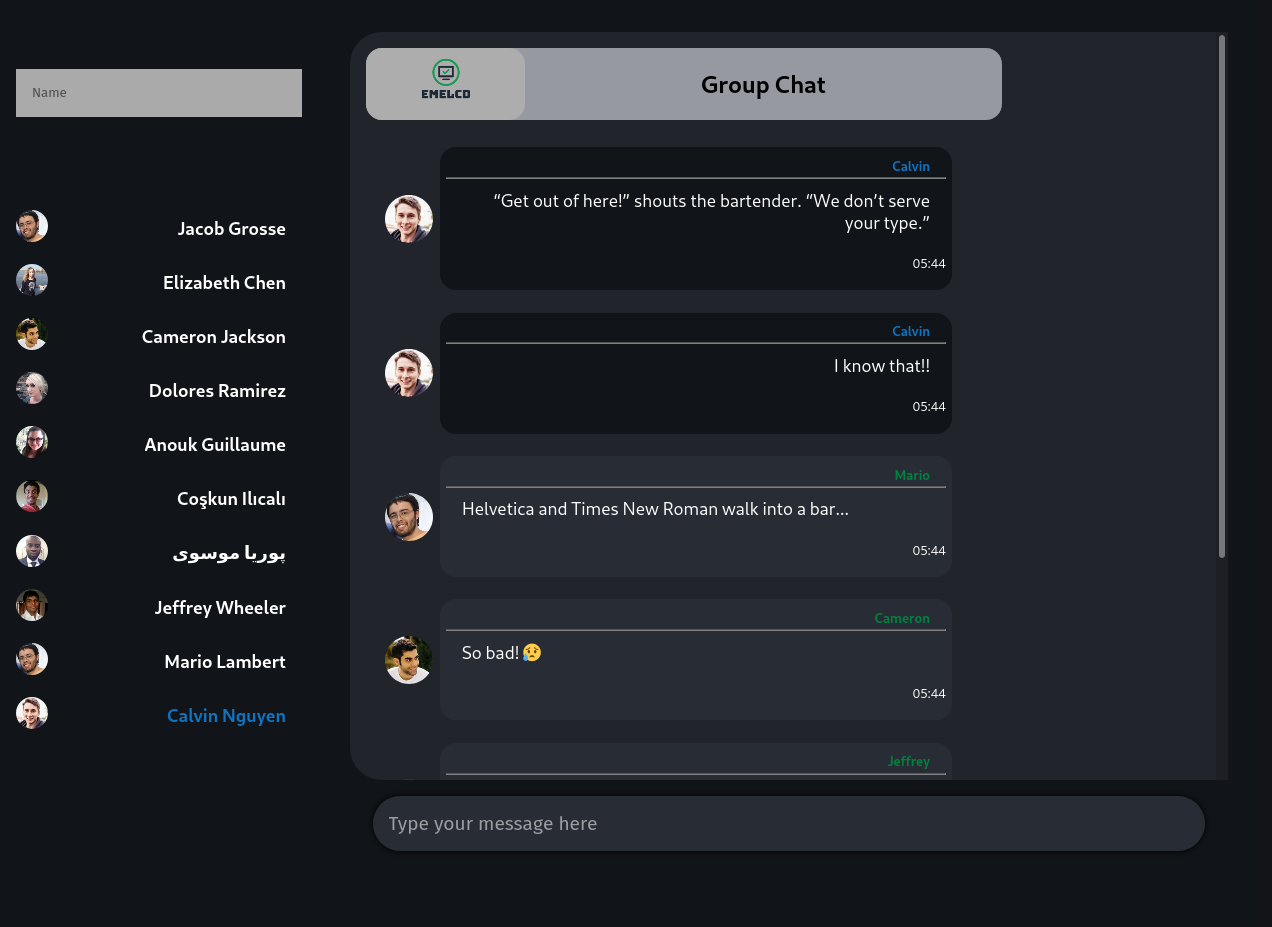
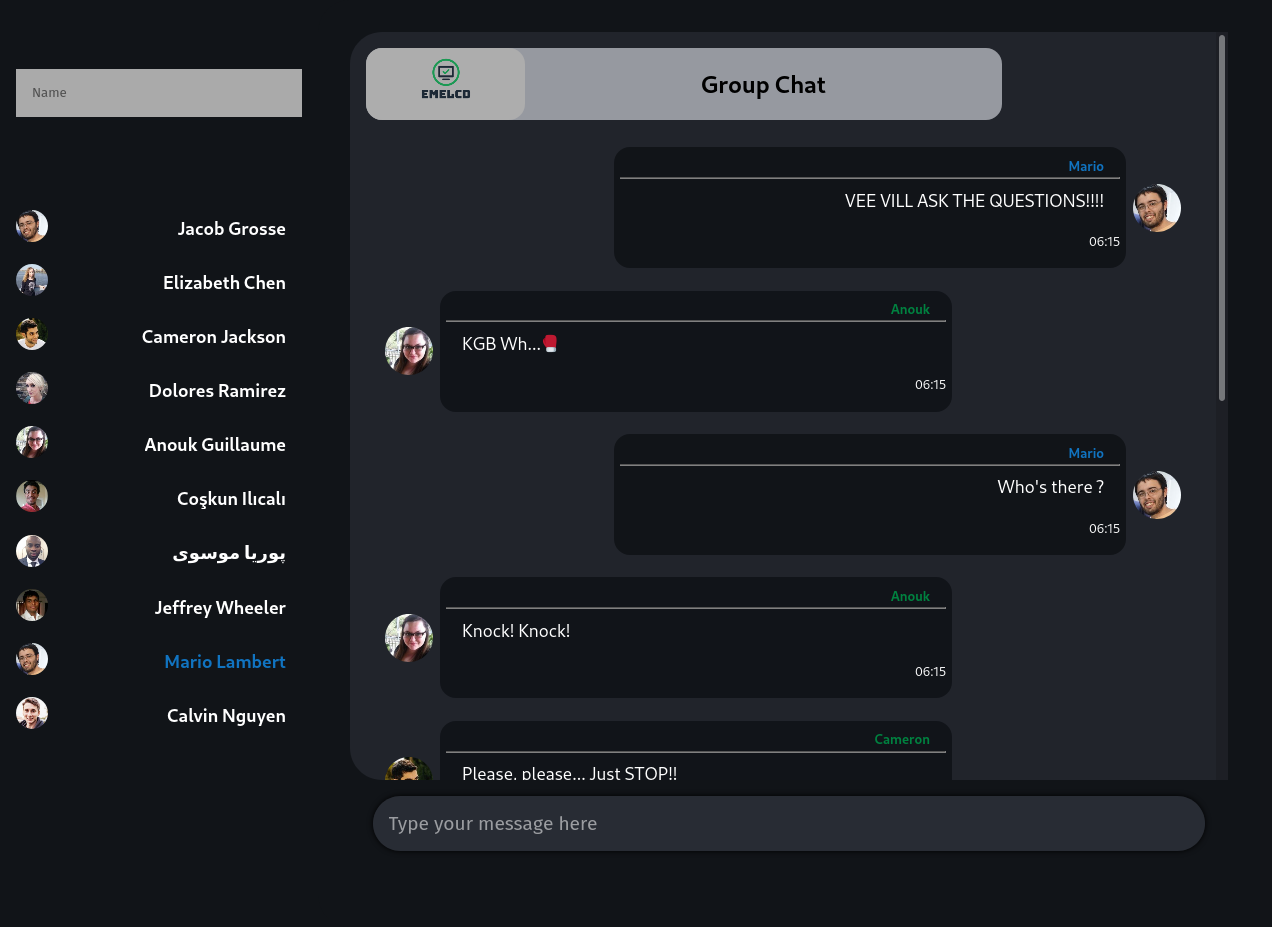
Finisihed Project

diff --git a/client/src/App.js b/client/src/App.js
@@ -54,7 +54,10 @@ const App = () => {
           <img src={item.picture} alt="avatar" />
         </div>
         <div className="contact-item-info">
-          <div style={{color: check ? '#1174C1':''}} className="contact-item-name">
+          <div
+            style={{ color: check ? "#1174C1" : "" }}
+            className="contact-item-name"
+          >
             {item.name.first} {item.name.last}
           </div>
         </div>
@@ -77,23 +80,47 @@ const App = () => {
   const ChatItem = ({ item }) => {
     // return data
     let userData = data.find((user) => user._id === item.user_id);
-    let check = user._id === item.user_id
-    console.log(userData)
+    let check = user._id === item.user_id;
+    console.log(userData);
     return (
-      <div className="message">
-        <div className="user">
-          <img className="img" src={userData.picture} alt="avatar" />
-        </div>
-        <div className="body" style={{backgroundColor: check ? '#111418' : '#282C34'}}>
-          <div className="card" >
-            <h5 className="title" style={{color: check ? '#1174C1' : '#008240'}}>{item.alias}</h5>
+      <div
+        style={{ justifyContent: check ? "flex-end" : "flex-start" }}
+        className="message"
+      >
+        {!check ? (
+          <div className="user">
+            <img className="img" src={userData.picture} alt="avatar" />
+          </div>
+        ) : null}
+
+        <div
+          className="body"
+          style={{ backgroundColor: check ? "#111418" : "#111419" }}
+        >
+          <div className="card">
+            <h5
+              className="title"
+              style={{ color: check ? "#1174C1" : "#008240" }}
+            >
+              {item.alias}
+            </h5>
             <hr className="hr"></hr>
-            <p className="content" style={{color:'white', textAlign: check ? 'right':''}} >{item.message}</p>
+            <p
+              className="content"
+              style={{ color: "white", textAlign: check ? "right" : "" }}
+            >
+              {item.message}
+            </p>
           </div>
           <div className="date">
             <p className="date-text">{nowMinuts(item.date)}</p>
           </div>
         </div>
+        {check ? (
+          <div className="user">
+            <img className="img" src={userData.picture} alt="avatar" />
+          </div>
+        ) : null}
       </div>
     );
   };

diff --git a/client/src/App.css b/client/src/App.css
@@ -143,8 +143,6 @@ body {
   padding: 0.4rem;
   width: 500px;
   border-radius: 1rem;
-  -webkit-transition: all .5s ease-in-out;
-  transition: all .5s ease-in-out;
 }
 
 .App-chat .chat .content .message .body .card .hr {
@@ -168,13 +166,6 @@ body {
 .App-chat .chat .content .message .body .date {
   text-align: right;
   font-size: .8rem;
-}
-
-.App-chat .chat .content .message .body:hover {
-  -webkit-transform: scale(1.1);
-          transform: scale(1.1);
-  -webkit-transform: translateX(2rem);
-          transform: translateX(2rem);
 }
 
 .contact-item {
